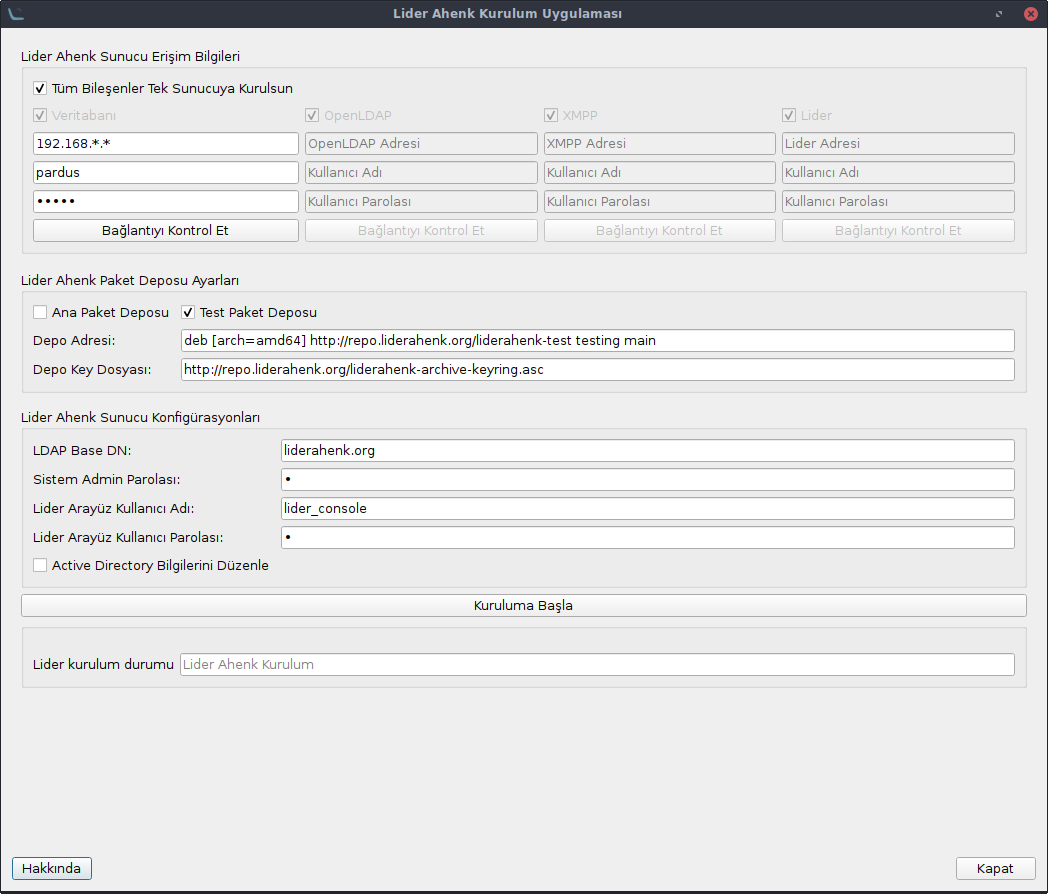
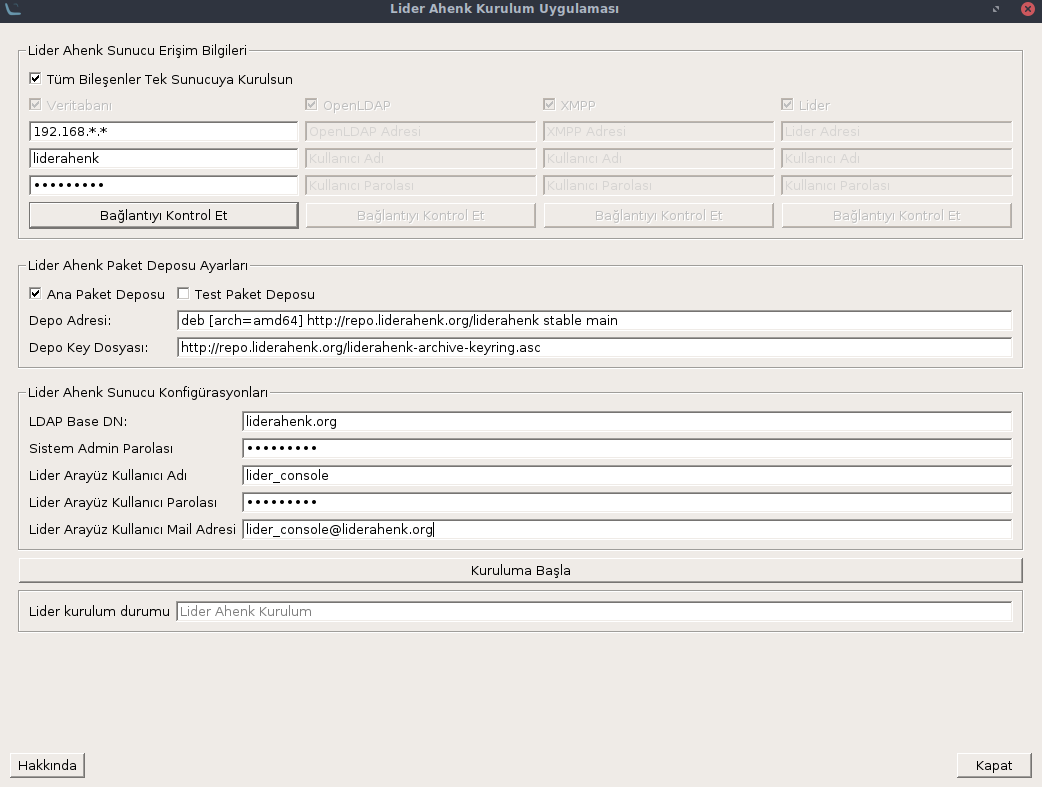
Lider installer Update

diff --git a/liderv2/lider/lider.md b/liderv2/lider/lider.md
@@ -1,8 +1,9 @@
 # LİDER AHENK UYGULAMASI NASIL KURULUR
 
-##### Not : Lider ahenk sunucusu için Pardus-19.2-SERVER sürümünü kullanınız. Pardus 19.2 sürümünü http://indir.pardus.org.tr/ISO/Pardus19/Pardus-19.2-SERVER-amd64.iso adresinden indirebilirsiniz. Sunucu dilini ingilizce olarak ayarlayınız. 
+Not : Lider ahenk sunucusu için Pardus-19.3-SERVER sürümünü kullanınız. Pardus 19.2 sürümünü http://indir.pardus.org.tr/ISO/Pardus19/Pardus-19.3-SERVER-amd64.iso adresinden indirebilirsiniz. Sunucu dilini ingilizce olarak ayarlayınız. 
 
 ## Bağımlılıkların Kurulması
+
 
 Uçbirimde aşağıdaki komutlar sırasıyla yazılır.
 
@@ -76,7 +77,7 @@ Lider Ahenk sunucu konfigürasyonları için aşağıdaki alanların girilmesi g
 **Sistem Admin Parolası:** Lider Ahenk bileşenleri için admin yönetici parolası,<br>
 **Lider Arayüz Kullanıcı Adı:** Lider arayüzü kullanacak kullanıcı adı (Lider Admini veya Sistem Yönetici), <br>
 **Lider Arayüz Kullanıcı Parolası:** Lider arayüzü kullanacak kullanıcı parolası, <br>
-
+**Lider Arayüz Kullanıcı Mail Adresi:** Lider arayüz kullanısının parolasını unuttuğunda kullanabileceği mail adresi.
 
 
 **Kuruluma Başla** butonuna tıklanarak Lider Ahenk sunucu kurulumu başlatılır.
